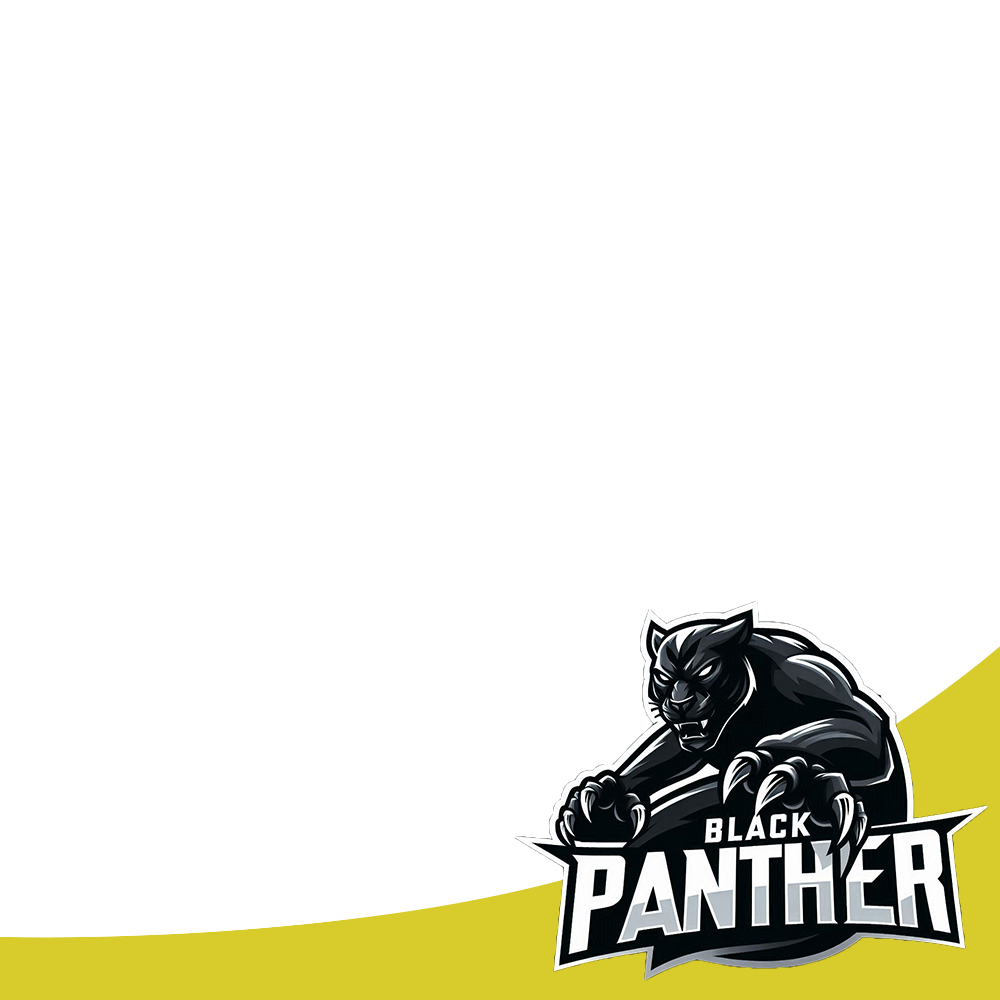
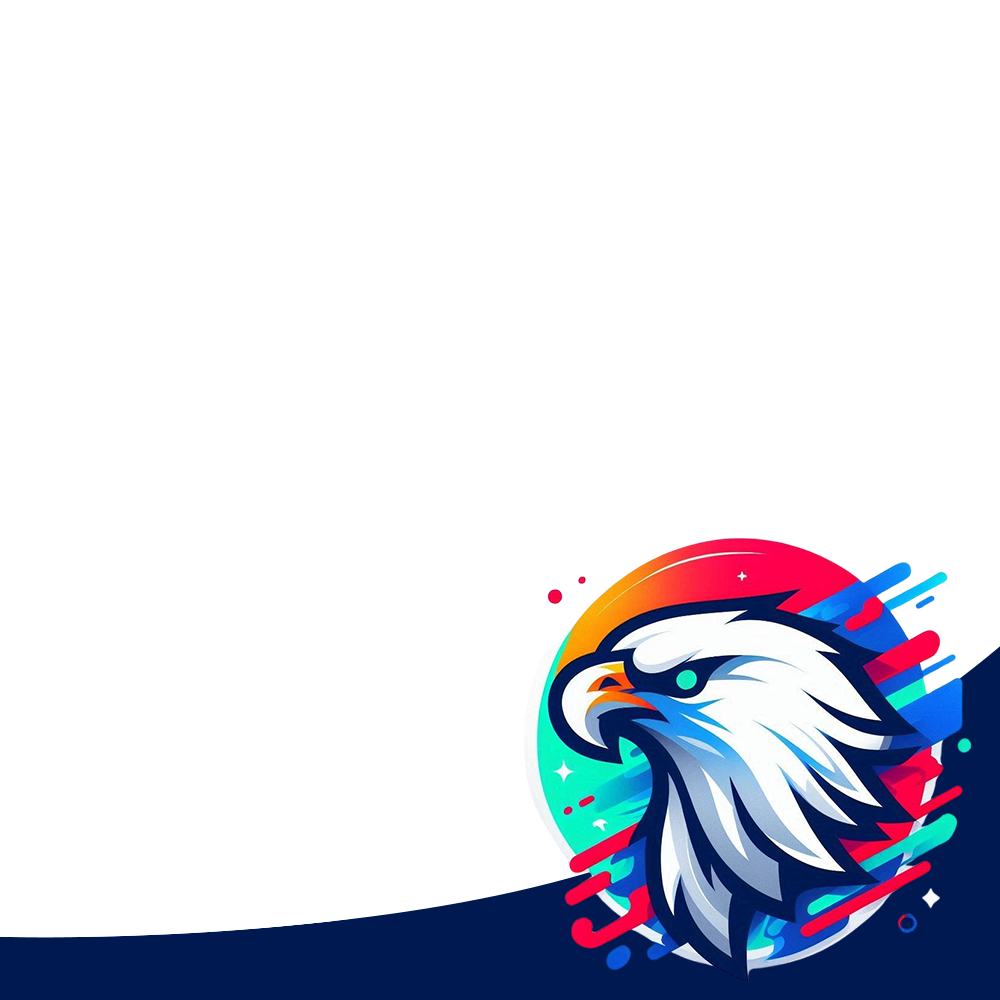
added new frames

Changed region(s): [[0.0, 0.527, 1.0, 1.0]]

diff --git a/index.html b/index.html
@@ -52,11 +52,25 @@
       .nav-links a:hover {
         color: #ffd700;
       }
-      .hero {
+
+      /* .hero {
         background: linear-gradient(rgba(0, 0, 0, 0.7), rgba(0, 0, 0, 0.7)),
-          url("assets/bg/bpwe.jpg") no-repeat center center/cover;
+          url("assets/bg/webp.jpg") no-repeat center center/cover;
         color: #fff;
         padding: 60px 0;
+        text-align: center;
+      } */
+      .hero {
+        height: 100vh;
+        background-image: url("assets/bg/webp.jpg");
+        background-attachment: fixed;
+        background-position: center;
+        background-repeat: no-repeat;
+        background-size: cover;
+        display: flex;
+        justify-content: center;
+        align-items: center;
+        color: white;
         text-align: center;
       }
       .hero h1 {

diff --git a/app.html b/app.html
@@ -47,6 +47,18 @@
           onclick="applyFrame('assets/frames/frame2.png')"
           alt="Frame 2"
         />
+        <img
+          src="assets/frames/frame3.png"
+          class="frame-option"
+          onclick="applyFrame('assets/frames/frame3.png')"
+          alt="Frame 3"
+        />
+        <img
+          src="assets/frames/frame4.png"
+          class="frame-option"
+          onclick="applyFrame('assets/frames/frame4.png')"
+          alt="Frame 4"
+        />
       </div>
       <div class="button-container">
         <button id="confirmFrameBtn">Confirm</button>
